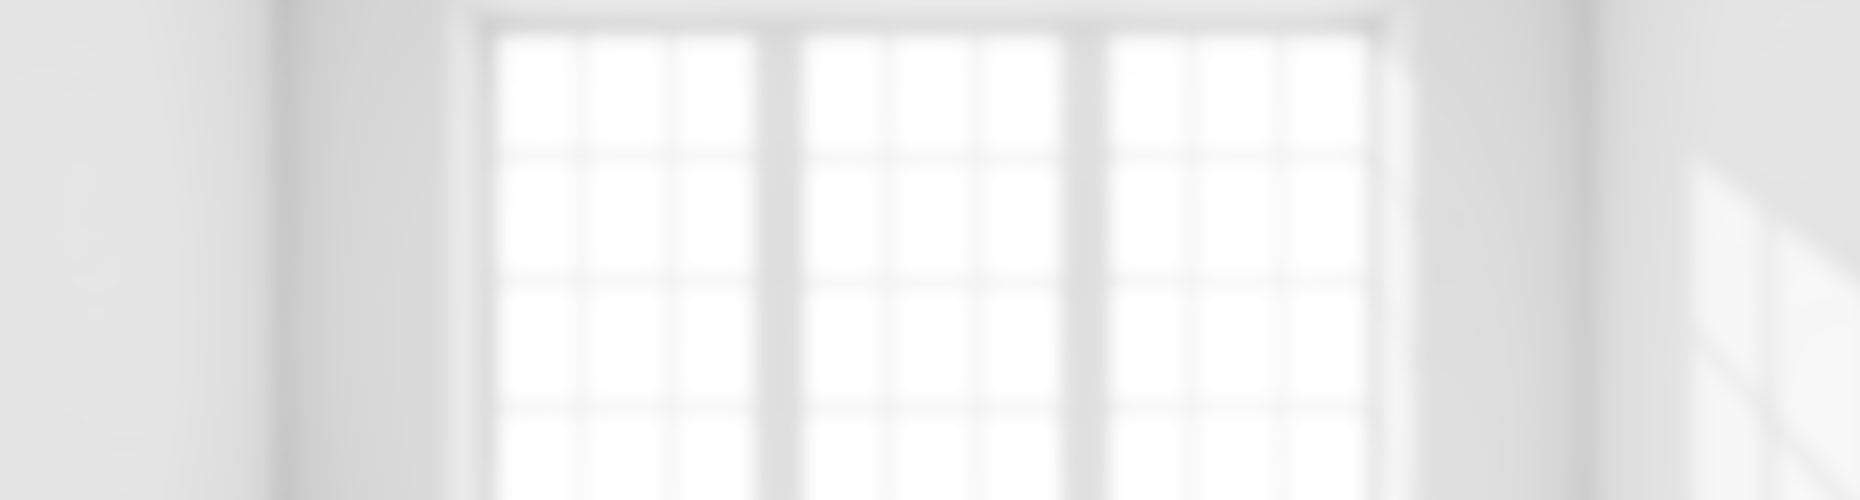
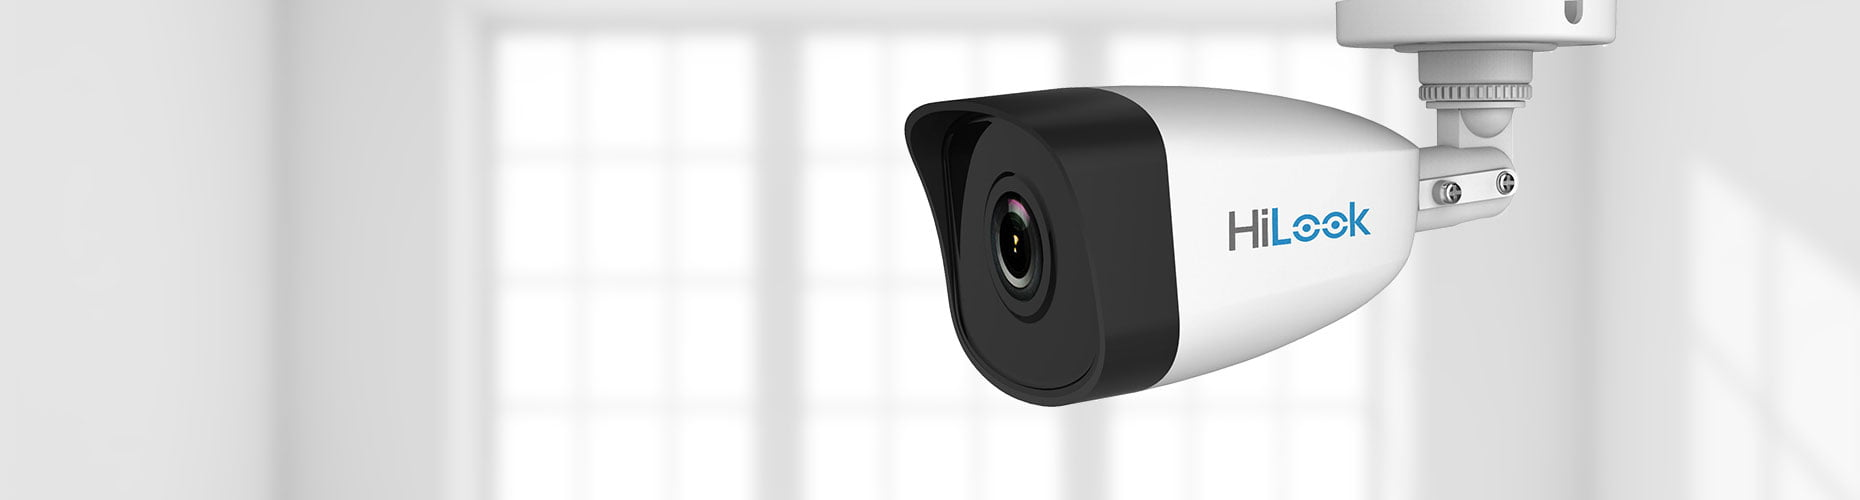
Reworked the main screen on the slider

Changed region(s): [[0.4677, 0.0, 0.8731, 0.81], [0.7484, 0.51, 0.7796, 0.54]]

diff --git a/app/static/js/common.js b/app/static/js/common.js
@@ -506,6 +506,18 @@ jQuery(document).ready(function($) {
 
   productGallery();
 
+  new Swiper('.hero-slider', {
+    spaceBetween: 30,
+    pagination: {
+      el: '.swiper-pagination',
+      type: 'bullets',
+    },
+    navigation: {
+      nextEl: '.swiper-button-next',
+      prevEl: '.swiper-button-prev',
+    },
+  });
+
   var vectorMap = function() {
     if ($('.partners__map').length){
       var script = document.createElement('script');

diff --git a/app/static/sass/blocks/hero/hero-slider.sass b/app/static/sass/blocks/hero/hero-slider.sass
@@ -1,0 +1,21 @@
+.hero-slider
+  &__item
+    position: relative
+    z-index: 1
+    height: auto
+    padding: 95px 0 110px
+    background:
+      repeat: no-repeat
+      position: center
+      size: cover
+    +r(767)
+      padding: 50px 0
+      &::before
+        content: ''
+        position: absolute
+        top: 0
+        right: 0
+        bottom: 0
+        left: 0
+        background-color: rgba(#fff, 0.55)
+        z-index: -1

diff --git a/app/static/sass/blocks/hero/hero.sass b/app/static/sass/blocks/hero/hero.sass
@@ -1,13 +1,15 @@
+@import 'hero-slider'
+
 .hero
-  padding: 95px 0 110px
+  padding: 0
   background:
-    repeat: no-repeat
-    position: center
-    size: cover
+    // repeat: no-repeat
+    // position: center
+    // size: cover
     color: $border-color
-  overflow: hidden
+  // overflow: hidden
   +r(767)
-    padding-bottom: 50px
+    // padding-bottom: 50px
   .container
     position: relative
   &__content
